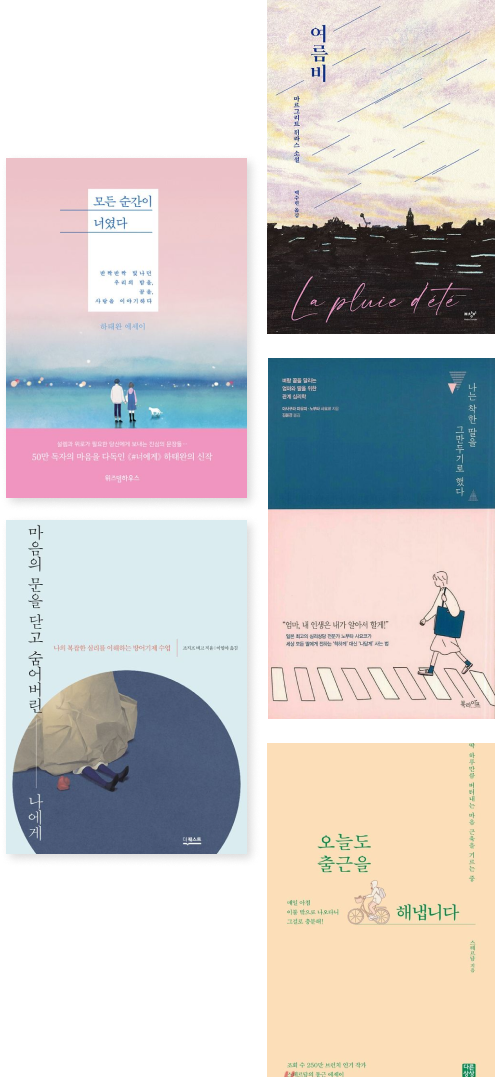
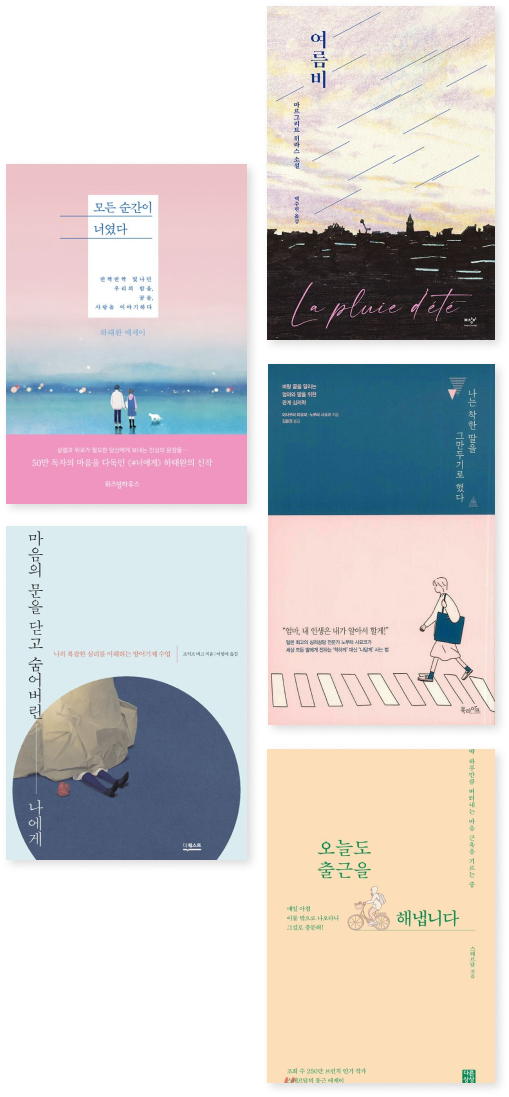
#3 Fix: 메인페이지 스타일 변경 및 이미지 변경
- 베스트셀러 이미지 변경
- 배경 이미지 길이 변경

by.seoeun

diff --git a/client/src/components/main/MBestSeller.jsx b/client/src/components/main/MBestSeller.jsx
@@ -7,8 +7,10 @@ import "swiper/css/navigation";
 import "swiper/css/pagination";
 import "swiper/css/autoplay";
 import "./Recommend.css";
-import BestImage from "../../assets/images/베스트셀러 책.png";
 import FirstBook from "../../assets/images/금메달.png";
+import BestImage from "../../assets/images/메인 캐러셀1.png";
+import BestImage2 from "../../assets/images/메인 캐러셀2.png";
+import BestImage3 from "../../assets/images/메인 캐러셀3.png";
 
 const MBestSeller = ({ position }) => {
   return (
@@ -62,19 +64,19 @@ const MBestSeller = ({ position }) => {
           </StyleSwipper>
           <StyleSwipper>
             <MBestBox>
-              <img src={BestImage} alt="베스트셀러2 이미지" />
+              <img src={BestImage2} alt="베스트셀러2 이미지" />
               <div className="best-cotents">
-                <h3>목포 여행 레시피</h3>
-                <p>양다솔</p>
+                <h3>마음의 문을 닫고 숨어버린 나에게</h3>
+                <p>비비비</p>
               </div>
             </MBestBox>
           </StyleSwipper>
           <StyleSwipper>
             <MBestBox>
-              <img src={BestImage} alt="베스트셀러3 이미지" />
+              <img src={BestImage3} alt="베스트셀러3 이미지" />
               <div className="best-cotents">
-                <h3>목포 여행 레시피</h3>
-                <p>양다솔</p>
+                <h3>모든 순간이 너였다</h3>
+                <p>최태환</p>
               </div>
             </MBestBox>
           </StyleSwipper>
@@ -140,6 +142,9 @@ const MBestBox = styled.div`
   img {
     overflow: hidden;
     z-index: 1;
+    max-height: 380px;
+    min-height: 380px;
+    min-width: 270px;
   }
   .best-cotents {
     text-align: center;

diff --git a/client/src/pages/mainPage/MainPage.jsx b/client/src/pages/mainPage/MainPage.jsx
@@ -281,7 +281,7 @@ const OutLine = styled.div`
   z-index: -1;
   .bg-line {
     width: 0.5px;
-    min-height: 300%;
+    min-height: 260%;
     background-color: #eeeeee;
     position: absolute;
     top: -100px;
